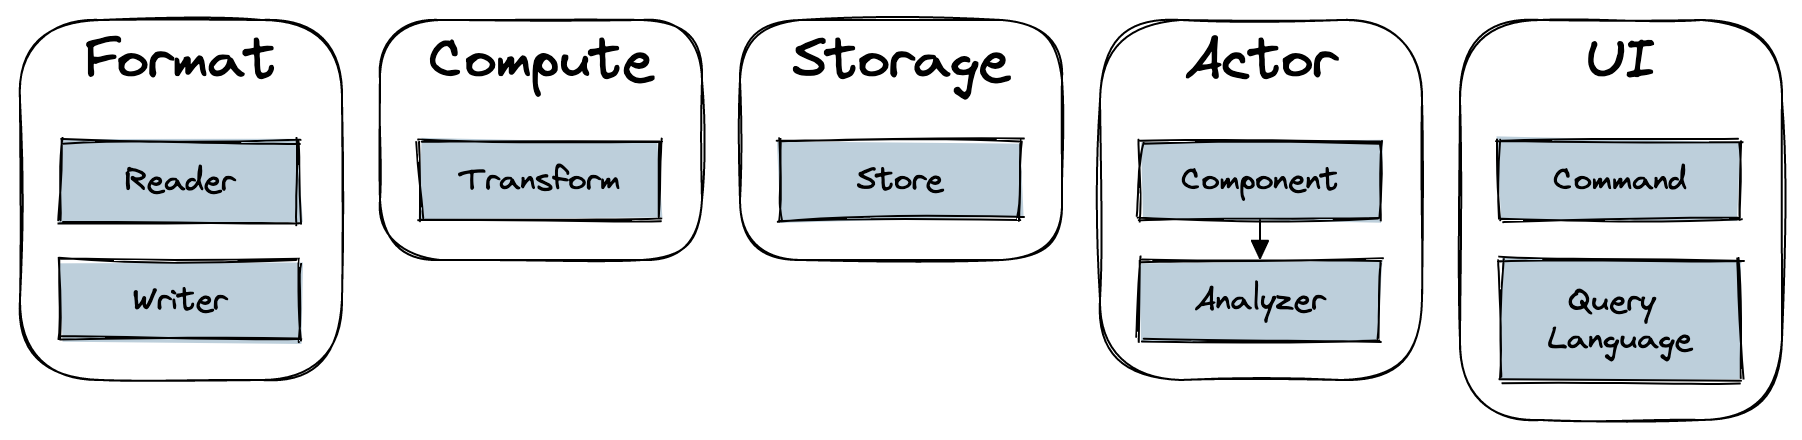
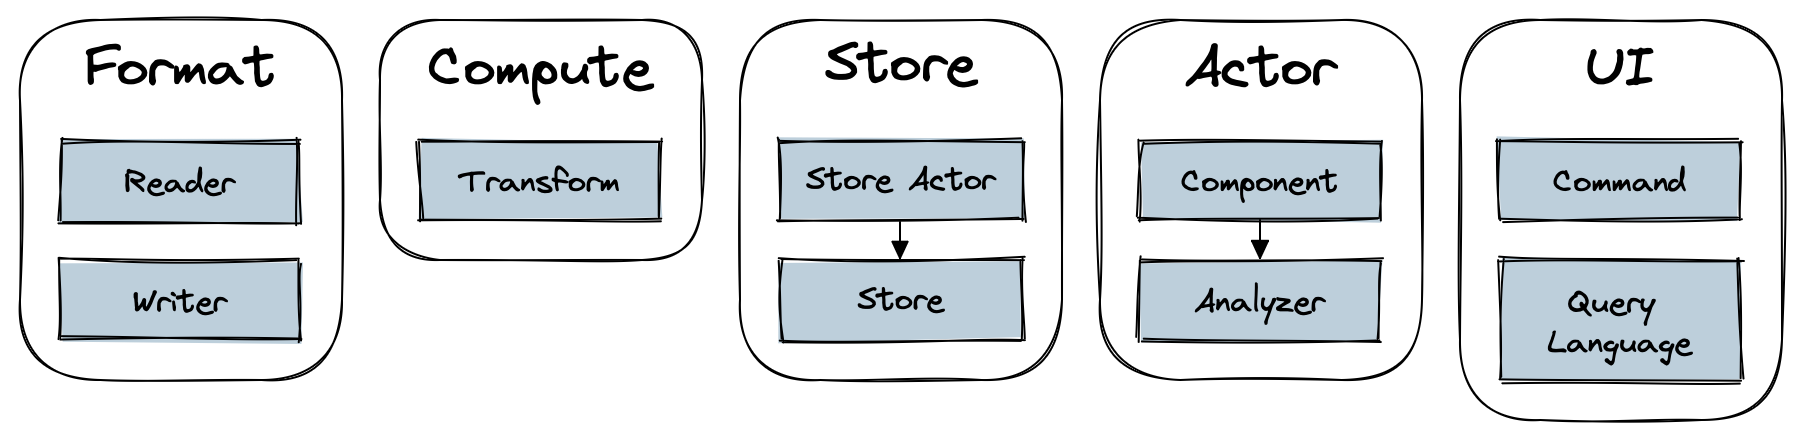
Document the store actor plugin type

diff --git a/web/docs/understand-vast/architecture/plugins.md b/web/docs/understand-vast/architecture/plugins.md
@@ -53,14 +53,14 @@ analyzer plugin is a refinement of the [component plugin](#component).
 The reader plugin adds a new format to parse input data, such as JSON (ASCII) or
 PCAP (binary).
 
-Reader plugins automatically add the subcommands `vast import <format>`.
+Reader plugins automatically add the subcommand `vast import <plugin name>`.
 
 ### Writer
 
 The writer plugin adds a new format to print data, such as JSON (ASCII) or PCAP
 (binary).
 
-Writer plugins automatically add the subcommands `vast export <format>`.
+Writer plugins automatically add the subcommand `vast export <plugin name>`.
 
 ### Query Language
 
@@ -68,24 +68,32 @@ A query language plugin adds an alternative parser for a query expression. This
 plugin allows for replacing the query *frontend* while using VAST as *backend*
 execution engine.
 
-For example, you could write a SQL plugin that takes an expression like
-`SELECT * FROM zeek.conn WHERE id.orig_h = "1.2.3.4"` and executes it on
-historical data or runs it as live query.
+For example, you could write a SQL plugin that takes an expression like `SELECT
+* FROM zeek.conn WHERE id.orig_h = "1.2.3.4"` and executes it on historical data
+or runs it as live query.
 
-### Pipeline
+### Pipeline Operator
 
 The pipeline operator plugin adds a new [pipeline
-operator](/docs/understand-vast/query-language/operators) that users can reference in
-a [pipeline definition](/docs/understand-vast/query-language/pipelines).
+operator](/docs/understand-vast/query-language/operators) that users can
+reference in a [pipeline
+definition](/docs/understand-vast/query-language/pipelines).
 
 ### Aggregation Function
 
 The aggregation function plugin adds a new [aggregation
 function](/docs/understand-vast/query-language/operators/summarize#aggregate-functions)
-for the `summarize` pipeline operator that performs an incremental aggregation over
-a set of grouped input values of a single type.
+for the `summarize` pipeline operator that performs an incremental aggregation
+over a set of grouped input values of a single type.
 
 ### Store
 
 Inside a partition, the store plugin implements the conversion from in-memory
 Arrow record batches to the persistent format, and vice versa.
+
+:::note Store Actor
+There exists a variant of the store plugin called the store actor plugin, which
+is more powerful and allows for customizing the control flow on top of providing
+a custom store backend. Unlike the store plugin, the store actor plugin is
+responsible for doing I/O itself.
+:::
